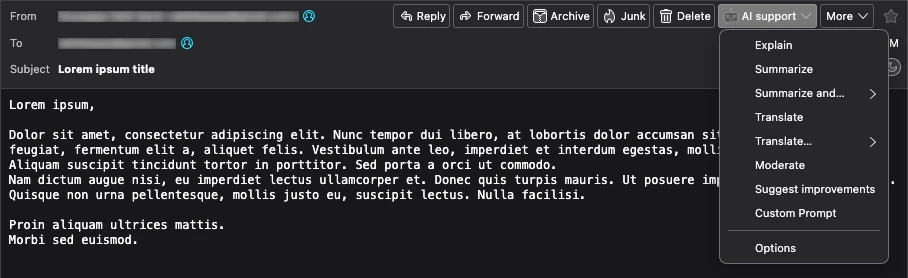
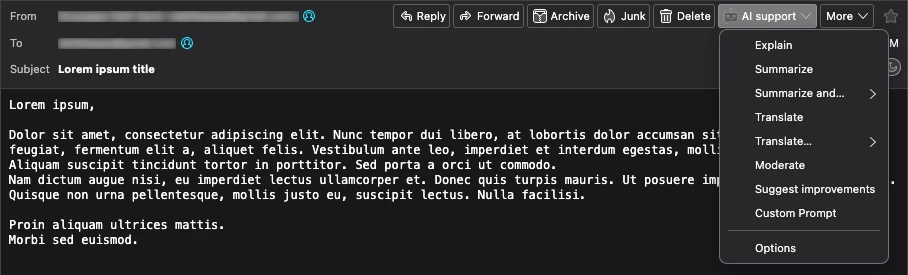
Continuation of Work Version 93
• Final version of README.md including details about the custom prompt feature

diff --git a/README.md b/README.md
@@ -81,7 +81,11 @@ Once the add-on is configured, it will be possible to interact with the AI manag
 
 Regardless of how a request for processing is made, the output (audio or text) will be displayed in a dedicated pop-up at the bottom of the mail client.
 
-<p align="center" width="100%"><img alt="AI support integration in selected text" src="docs/screen/screen-output.webp"></p>
+<p align="center" width="100%"><img alt="Output" src="docs/screen/screen-output.webp"></p>
+
+Whether in the email viewing or composition window, you can always enable the custom prompt feature to receive even more relevant responses tailored to your needs.
+
+<p align="center" width="100%"><img alt="Custom prompt" src="docs/screen/screen-custom-prompt.webp"></p>
 
 ### Owl for Exchange bug
 
